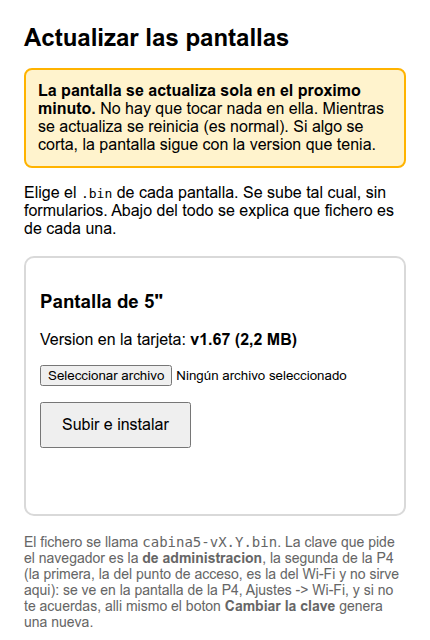
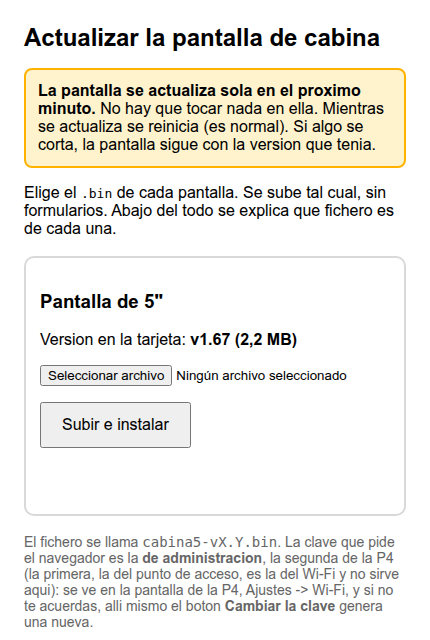
/captura: con dos claves, cada pantalla pide la suya
handle_captura exigia SIEMPRE la clave del portal y, para las pantallas
sensibles (wifi, victron_keys), ADEMAS la de administracion. Ninguna
peticion puede traer las dos, asi que esas dos pantallas no se podian
fotografiar: 401 siempre.

Ahora se pide la que toca: administracion para wifi y victron_keys, la
del portal para el resto. Con eso se pudieron rehacer las capturas del
manual (la 16 y la 21).

Y la captura nueva de /pantallas (docs/capturas/web_pantallas.png), que
ya solo enseña la pantalla de 5".

Changed region(s): [[0.393, 0.0312, 0.8767, 0.0938]]

diff --git a/main/portal/config_server.c b/main/portal/config_server.c
@@ -834,7 +834,12 @@ static esp_err_t handle_settime(httpd_req_t *req)
  * por compartir bus con el C6). SI pide auth (REQUIRE_AUTH, nivel abierto):
  * ni el AP local ni que solo devuelva capturas lo dejan publico. */
 static esp_err_t handle_captura(httpd_req_t *req) {
-    REQUIRE_AUTH(req);   /* navega la pantalla fisica (ui_tour_goto_screen): exige auth */
+    /* CON DOS CLAVES, UNA PETICION NO PUEDE TRAER LAS DOS (5-nov-2026). Antes
+     * esto pedia SIEMPRE la clave del portal (nivel abierto) y ademas, para las
+     * pantallas sensibles, la de administracion -> esas dos pantallas no se
+     * podian fotografiar de ninguna manera (401 siempre). Ahora se pide la que
+     * toca: la de administracion para "wifi" y "victron_keys", la del portal
+     * para el resto. */
     int n = -1;
     char query[48];
     if (httpd_req_get_url_query_str(req, query, sizeof(query)) == ESP_OK) {
@@ -854,7 +859,11 @@ static esp_err_t handle_captura(httpd_req_t *req) {
      * navegar a esas paginas antes de exigir las credenciales estrictas
      * (si fallan, el 401 ya va enviado y no se navega). */
     if (ui_tour_screen_needs_strict_auth(n)) {
+        /* Pantalla sensible: basta la clave de ADMINISTRACION. */
         REQUIRE_AUTH_STRICT(req);
+    } else {
+        /* El resto: la del portal (la del punto de acceso). */
+        REQUIRE_AUTH(req);   /* navega la pantalla fisica (ui_tour_goto_screen) */
     }
     const char *name = ui_tour_goto_screen(n);
     if (!name) {
